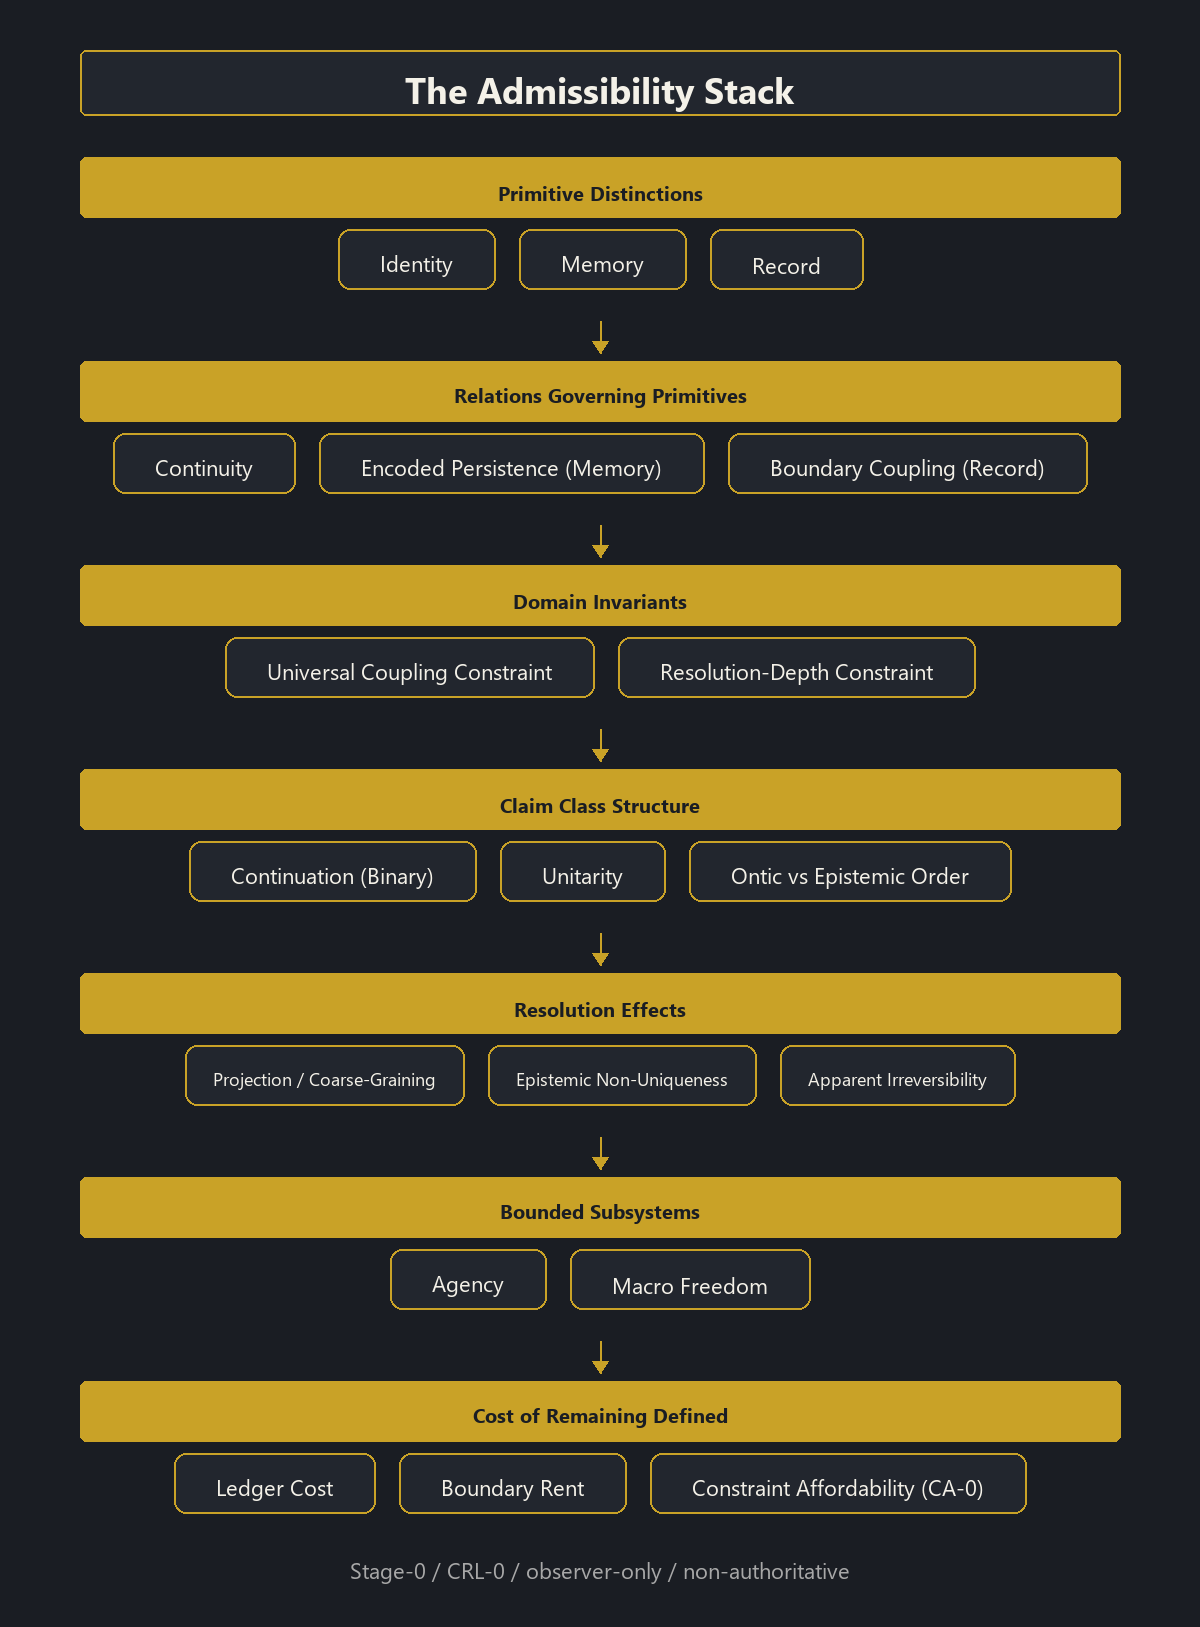
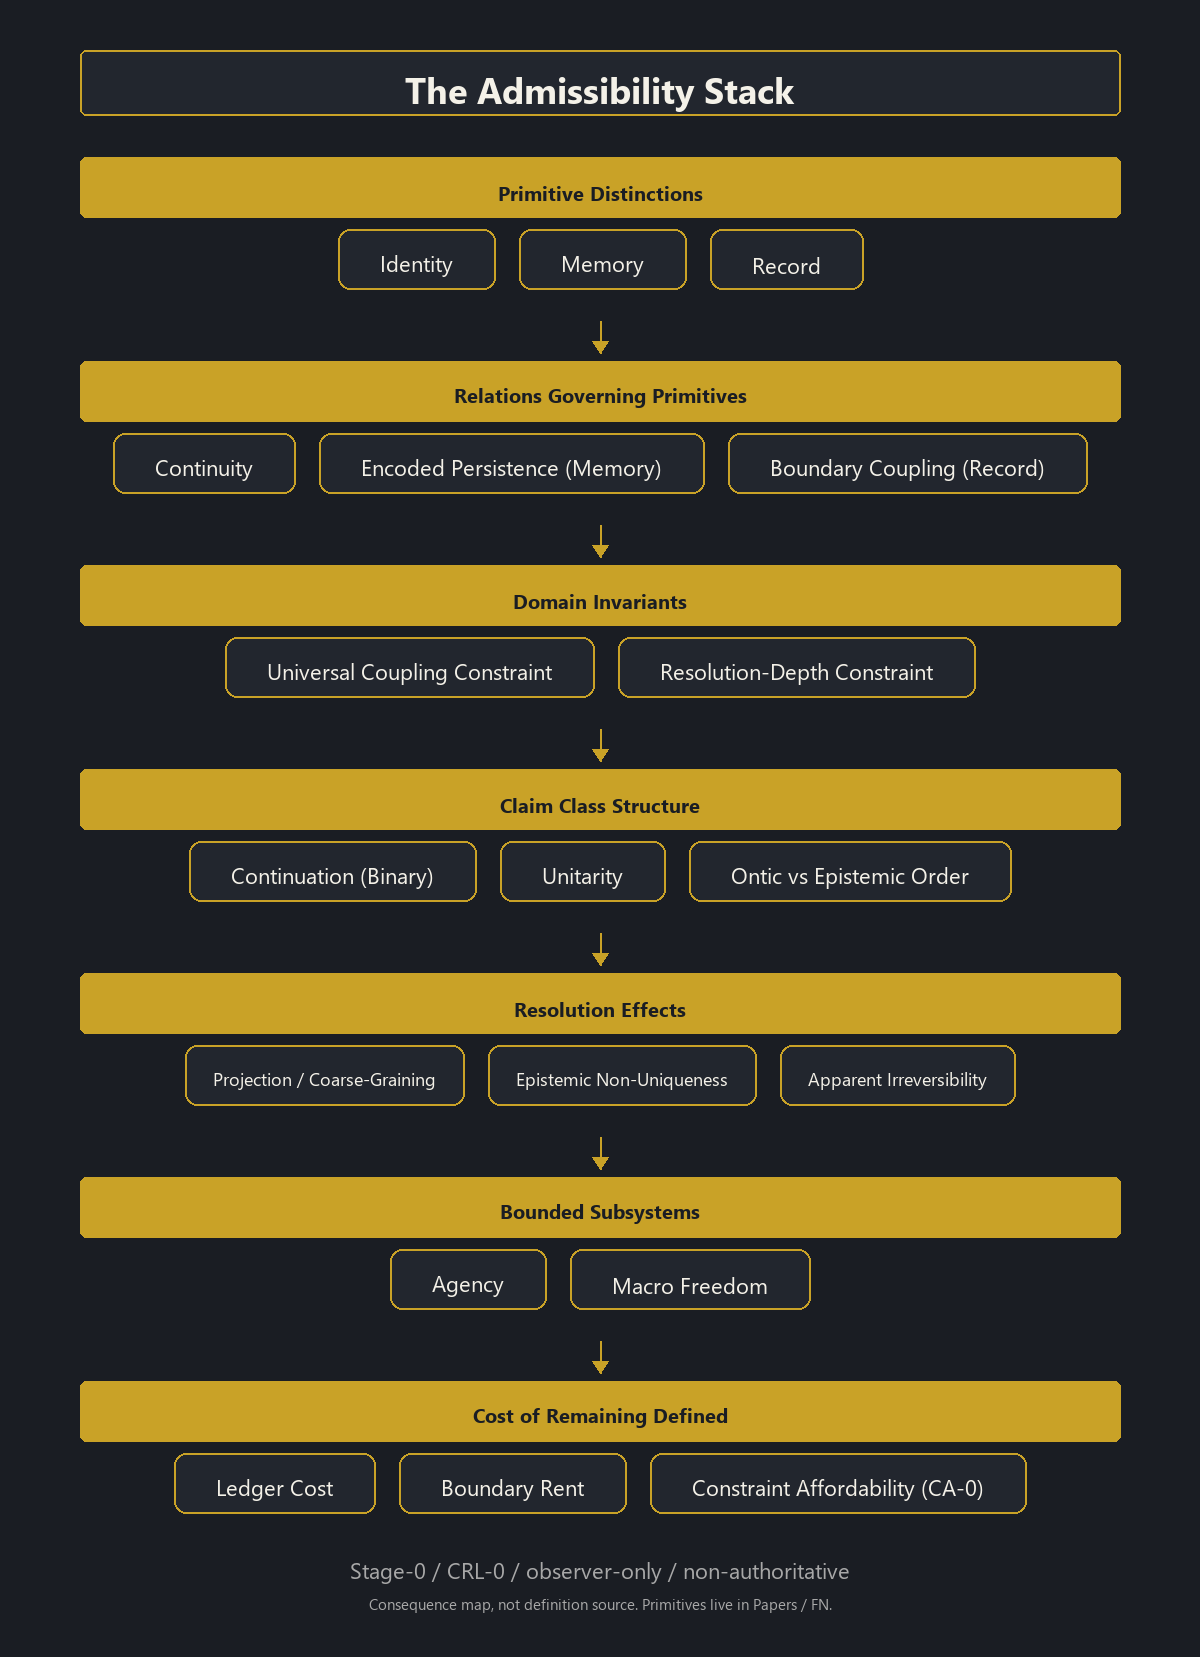
docs(diagram): add non-claim invariant footer to admissibility stack
"Consequence map, not definition source. Primitives live in Papers / FN."
Prevents misreading the stack as a definition source.

diff --git a/docs/images/gen_admissibility_stack.py b/docs/images/gen_admissibility_stack.py
@@ -152,9 +152,16 @@ y += 10
 footer = "Stage-0 / CRL-0 / observer-only / non-authoritative"
 fw, fh = text_size(draw, footer, font_pill)
 draw.text((cx - fw // 2, y), footer, fill=GRAY_SUB, font=font_pill)
+y += fh + 16
+
+# --- Non-claim invariant ---
+font_nonclaim = get_font(15)
+nonclaim = "Consequence map, not definition source. Primitives live in Papers / FN."
+nw, nh = text_size(draw, nonclaim, font_nonclaim)
+draw.text((cx - nw // 2, y), nonclaim, fill=GRAY_SUB, font=font_nonclaim)
 
 # --- Crop to content ---
-final_h = y + fh + 50
+final_h = y + nh + 50
 img = img.crop((0, 0, W, final_h))
 
 out_path = os.path.join(os.path.dirname(__file__), "admissibility-stack.png")
